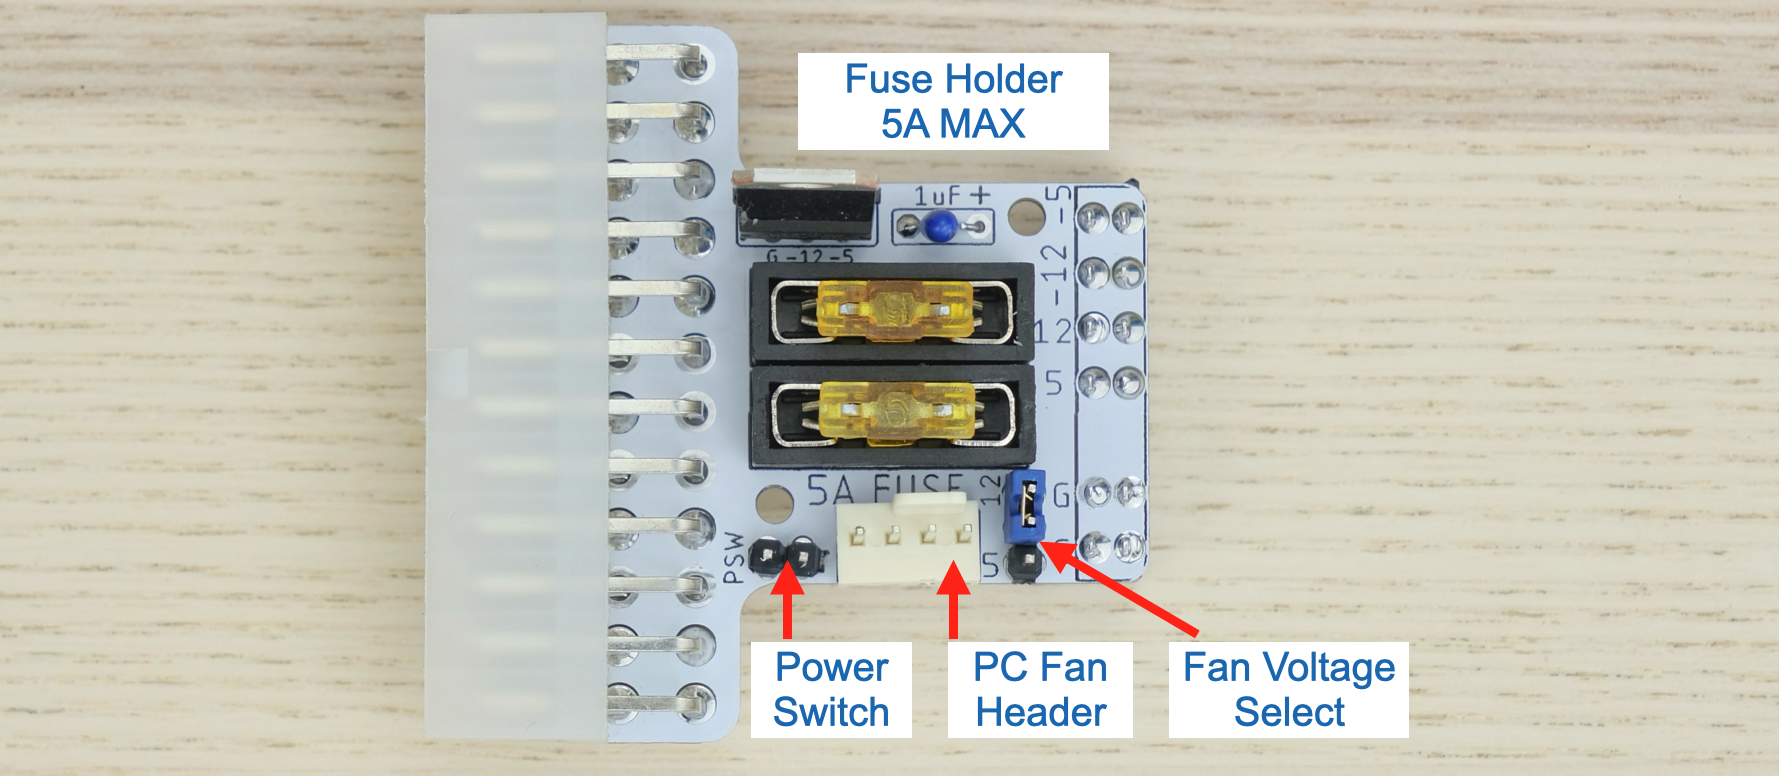
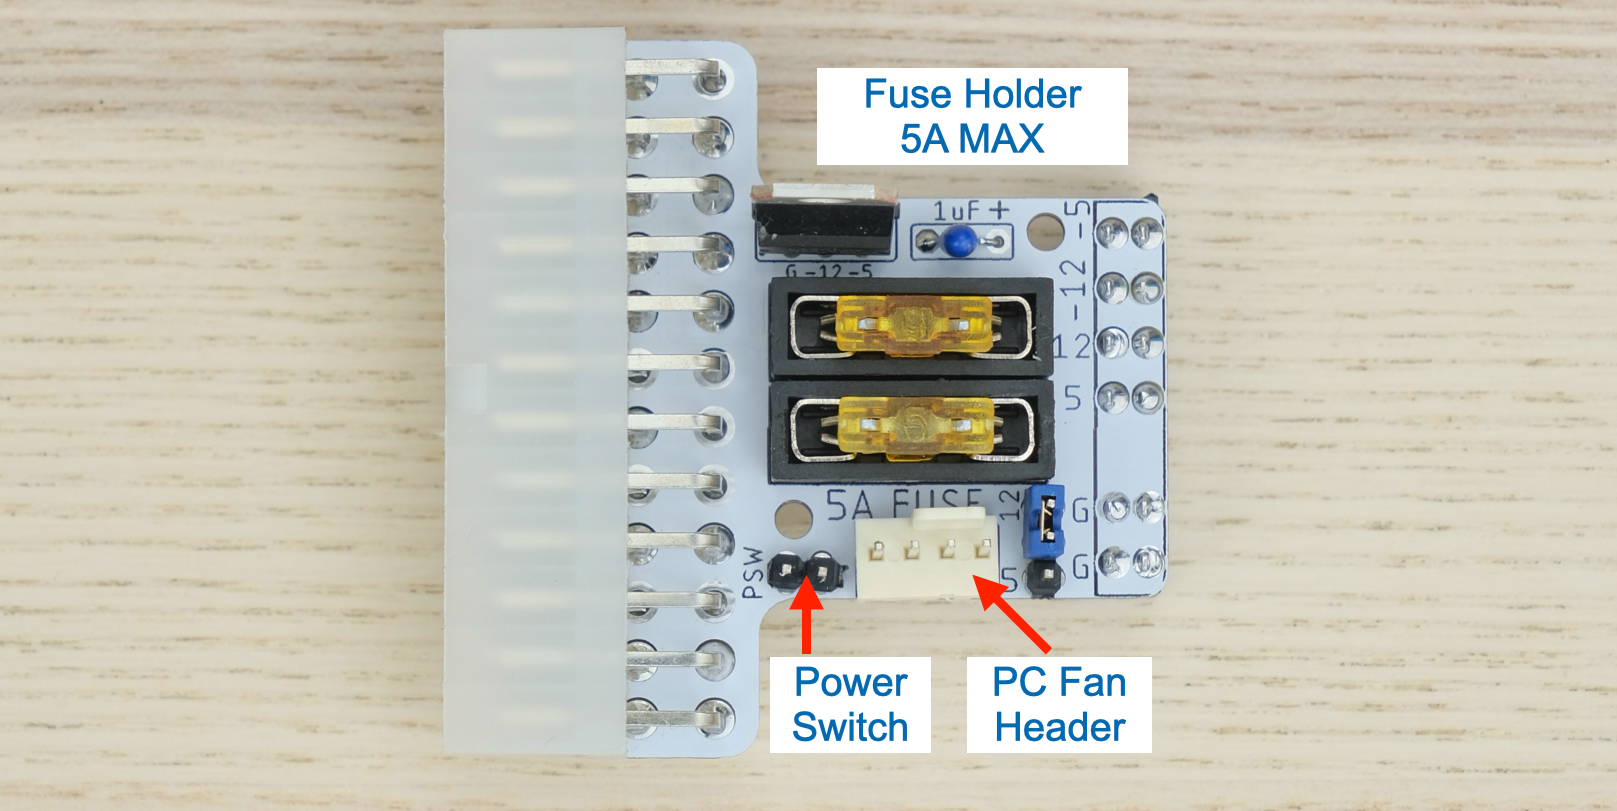
updated instruction

diff --git a/apple_iigs.md b/apple_iigs.md
@@ -86,7 +86,7 @@ More reference photos:
 
 ### Cleaning
 
-This is optional, but I like to clean off the flux with 90%+ isopropyl alcohol.
+Optional, but I like to clean off the flux with 90%+ isopropyl alcohol.
 
 Submerge and scrub with a toothbrush.
 
@@ -103,32 +103,28 @@ Make sure it is **completely dry** before proceeding.
 
 ### Power Button
 
-Slide heat shrink tubing over each jumper wire.
-
-Solder the wires to the button.
+* Insert heat shrink tube through both wires.
+* Solder the wires to the button.
 
 ![Alt text](photos/iigs/but1.jpeg)
 
-Slide the tubing up to cover the contacts. Use hot air to shrink.
+* Slide the tubing up to cover the contacts.
+* Use hot air to shrink.
 
 ![Alt text](photos/iigs/but2.jpeg)
 
-## Board Features
-
-Install **two fuses** and the **jumper block** as shown below.
+* Install **two fuses**
 
 ![Alt text](photos/iigs/feature.png)
 
-### PC Fan Header
+PC Fan Header:
 
-* Any standard 3 or 4-pin PC fan should work
+* Any standard 3 or 4-pin PC fan will work
 
-* Run it at 12V (full speed) or 5V (quieter) by changing the jumper
+Fuse:
 
-### Fuse
-
-* Use common car fuse rated **5A OR LESS**
-
+* Use common car fuse
+	* Rated **5A OR LESS**
 * **DO NOT BYPASS FUSES**
 
 ## Pre-flight Checks
@@ -147,57 +143,51 @@ If all good, plug in PicoPSU and connect the power button, turn it on.
 
 This is to prevent short circuit on nearby components.
 
-There should be four nylon rivets. Use the **two longer ones** for this.
+There should be four **nylon rivets**.
+
+Use the **two longer ones** for this.
 
 ![Alt text](photos/iigs/insulate.png)
 
-Pull them apart, insert the hollow tube from the back, then insert the plunger to fix it in place.
+* Pull them apart
+* Insert the hollow tube from bottom side
+* Insert the plunger to secure in place
 
 ![Alt text](photos/iigs/backplate.png)
 
 ## Installation
 
 * Remove top cover
-
 * Pull back the tab to release old PSU
-
 * Unplug cable
 
 ![Alt text](photos/iigs/top.jpeg)
 
 * Get the power jack plates, place one inside.
-
 * Pull apart the rivets like last time
-
 * Insert the hollow tube on the outside plate
-
 * Line up and make sure it goes through both plates
 
 ![Alt text](photos/iigs/jackplate.jpeg)
 
 * Support the other side with your hand
-
-* Insert the plunger to hold it in place.
+* Insert the plunger to hold it in place
 
 ![Alt text](photos/iigs/jackcover.jpeg)
 
 * Next up, power button.
-
 * Gather all the parts. Undo the locking ring.
 
 ![Alt text](photos/iigs/swparts.jpeg)
 
 * From outside, insert the button through the square plate.
-
 * From inside, install the rectangle plate, then tighten with the locking ring.
 
 ![Alt text](photos/iigs/swmount.png)
 
-* Then just plug the whole thing into the power connector!
-
+* Plug the assembly into the motherboard power connector
 * It should go in firmly, but NOT reach the bottom.
-
-* Plug in the power button.
+* Plug in the power button
 
 ![Alt text](photos/iigs/plug.jpeg)
 
@@ -213,17 +203,17 @@ That's pretty much it!
 
 ### Adding a Fan
 
-You can add a fan for additional cooling.
+You can add a fan for additional cooling. Any regular PC fan should work.
 
-Any regular PC fan should work, you can run it at 12V (full speed) or 5V (quieter).
+Ensure:
 
-Make sure the fan is secured, nothing touches the blade, and air flow direction is correct.
+* Fan is mounted securely
+* Nothing touches the blade
+* Air flow direction is correct
 
 ## Congratulations!
 
 Put the cover back on, and you're done!
-
-With new PSU and upgraded cooling, your IIGS should continue to provide entertainment for years to come!
 
 ![Alt text](photos/iigs/money.jpeg)
 
